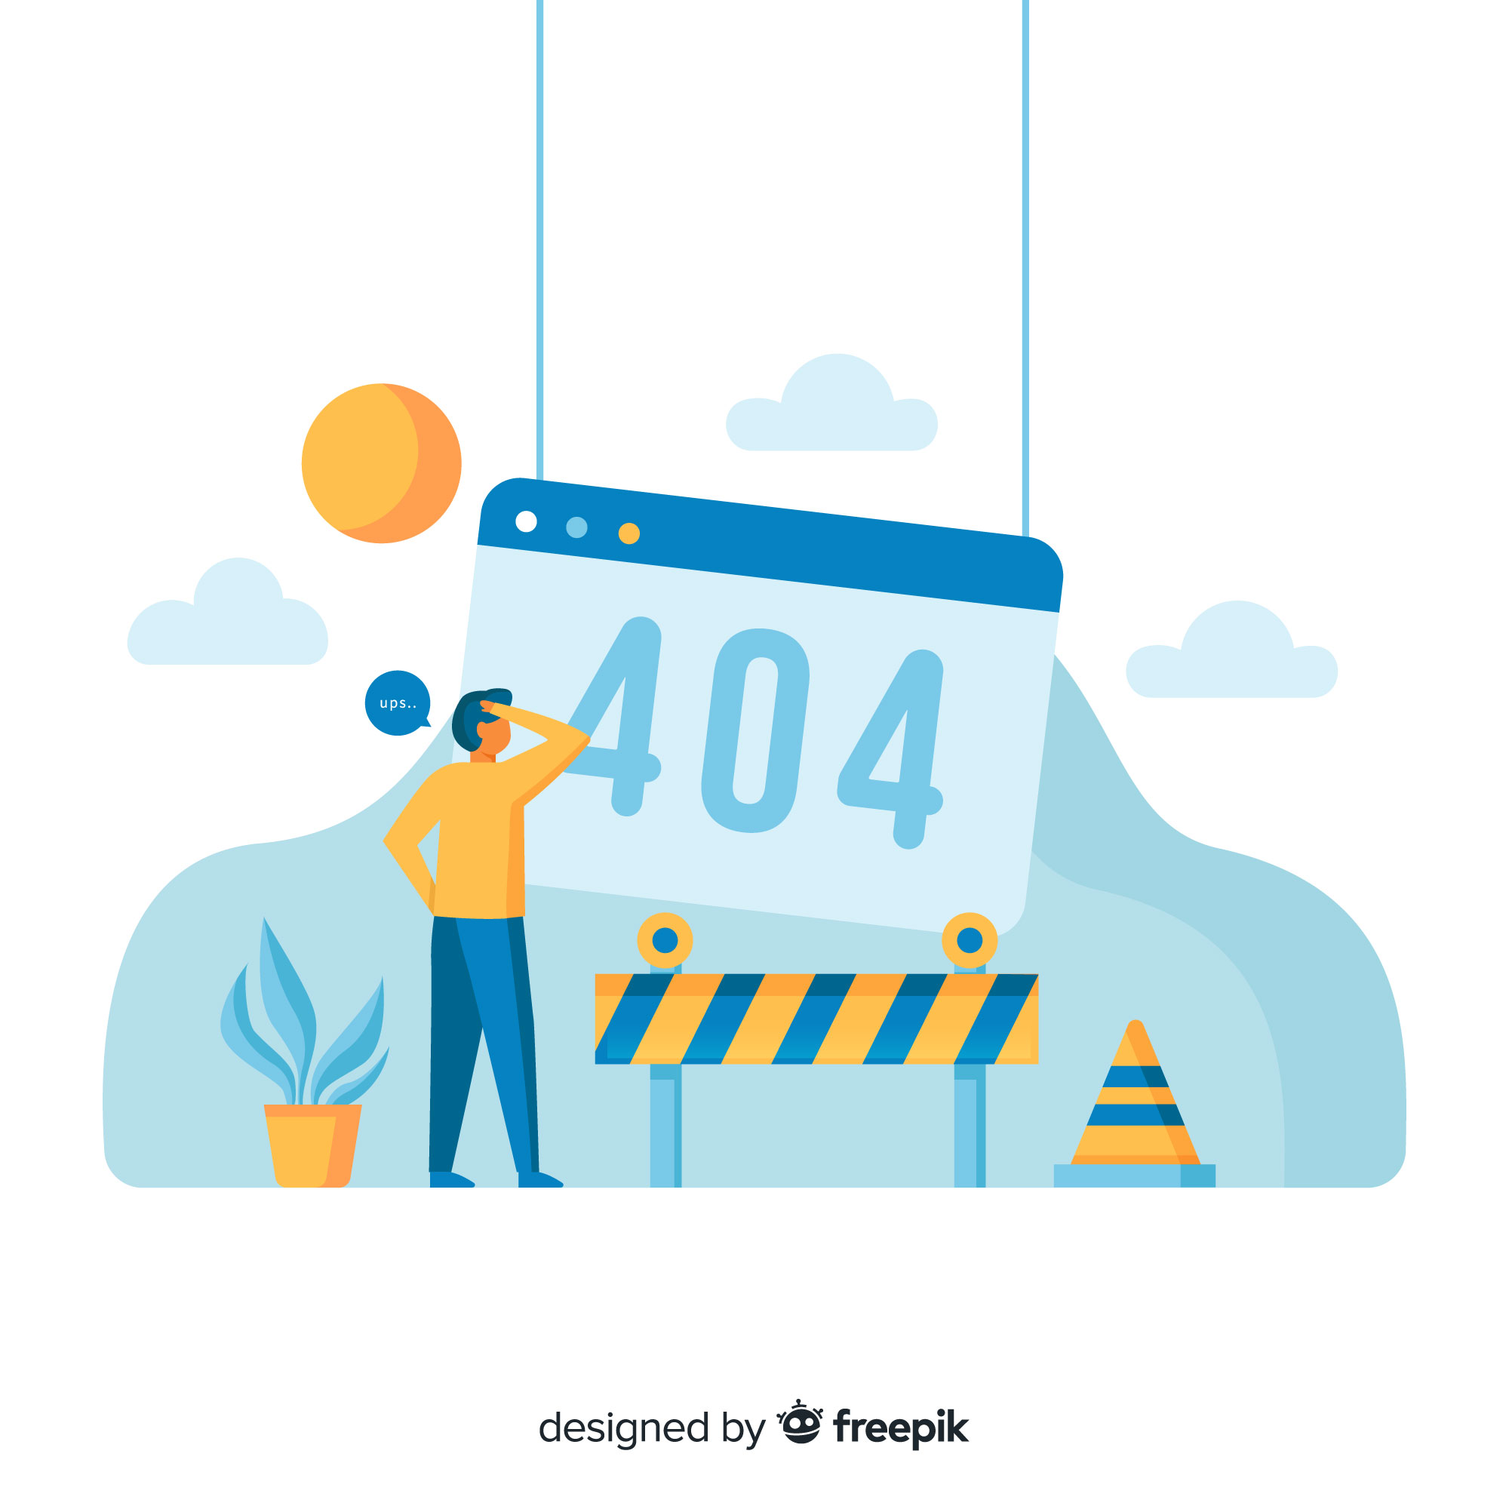
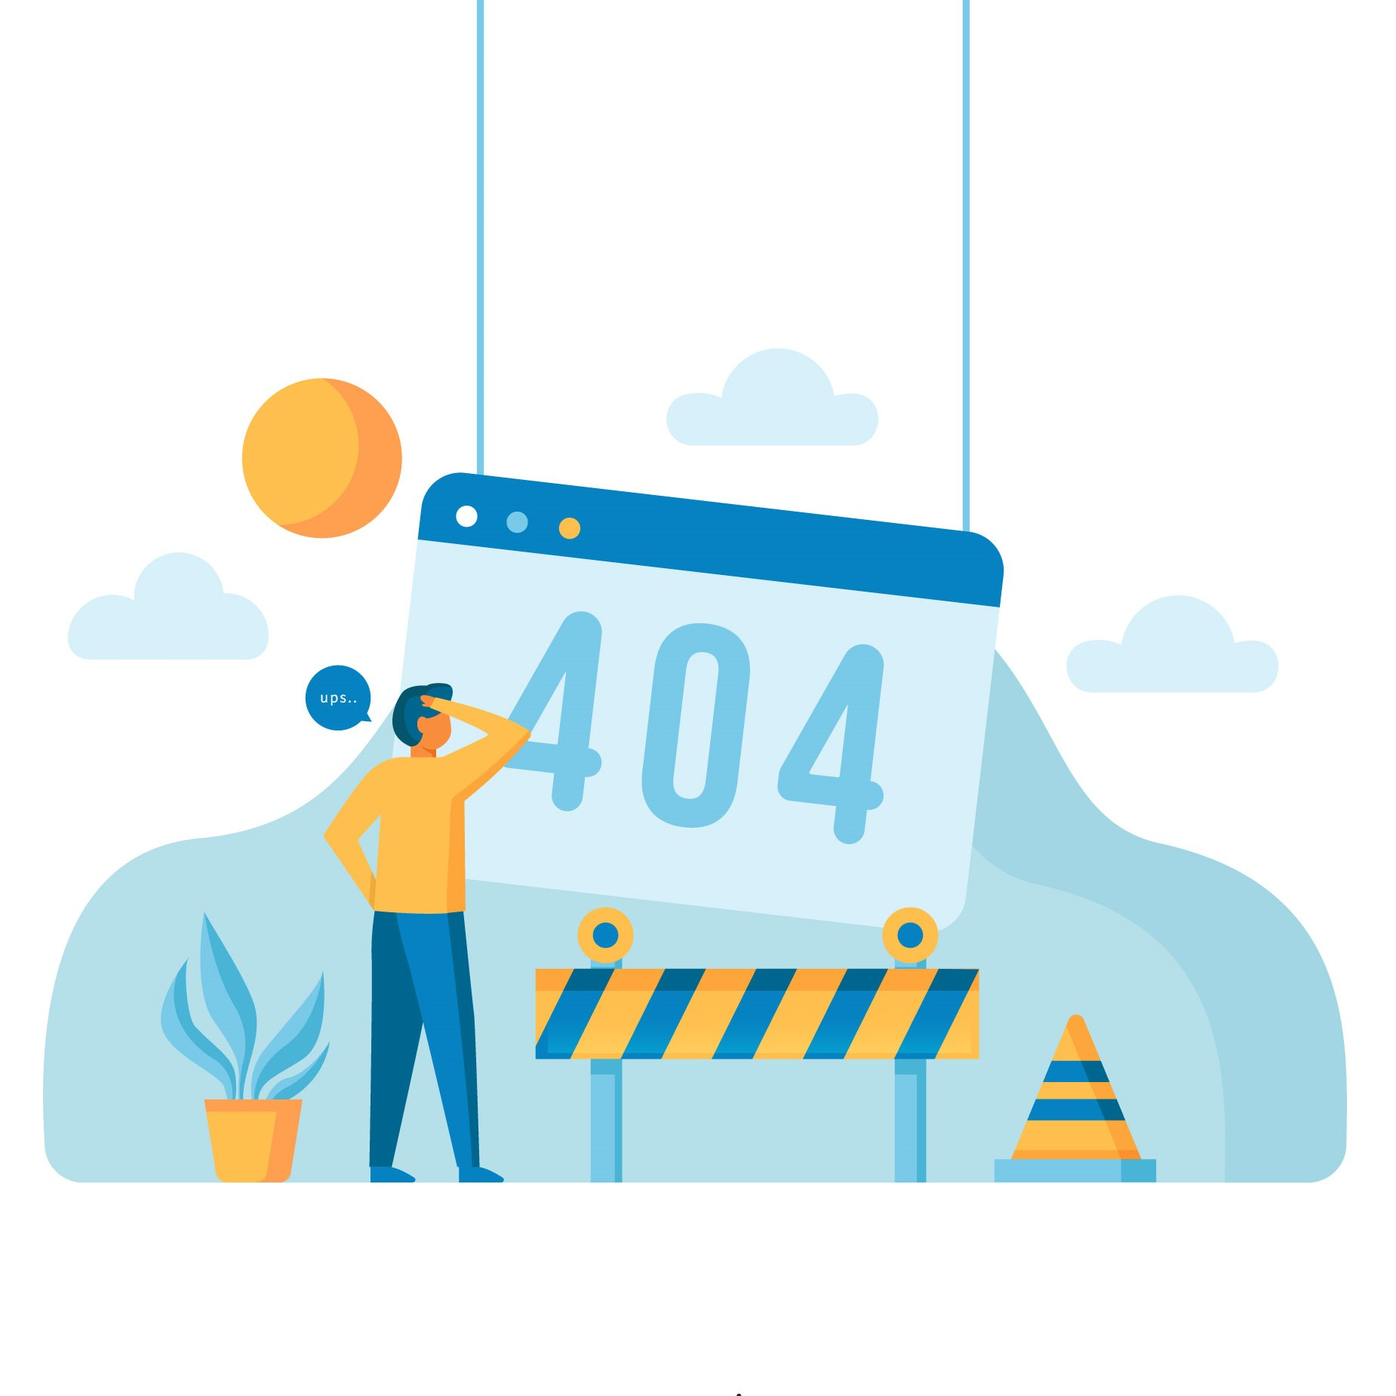
Detail page

Changed region(s): [[0.0308, 0.0, 0.9859, 0.8627], [0.7395, 0.5238, 0.9243, 0.647], [0.3389, 0.9243, 0.647, 0.9551]]

diff --git a/src/components/postDetail.js b/src/components/postDetail.js
@@ -1,0 +1,30 @@
+import React from "react";
+
+class postDetail extends React.Component {
+    render() {
+        return (
+            <div className="py-5 w-full">
+                <h1 className=" text-2xl">LÃNH ĐẠO TỔNG CÔNG TY ĐIỆN LỰC MIỀN NAM ĐẾN THĂM VÀ CHÚC TẾT TRƯỜNG CAO ĐẲNG ĐIỆN LỰC THÀNH PHỐ HỒ CHÍ MINH</h1>
+                <p className="text-end">(18/01/2023)</p>
+                <div class="max-w-4xl ms-0 2xl:mx-auto"><div class="font-display text-xl text-primary dark:text-primary-dark leading-relaxed"><p class="whitespace-pre-wrap my-4">React has a community of millions of developers. On this page we’ve listed some React-related communities that you can be a part of; see the other pages in this section for additional online and in-person learning materials.</p></div>
+                    <h2 id="code-of-conduct" class="mdx-heading text-3xl font-display leading-10 text-primary dark:text-primary-dark font-bold my-6">Code of Conduct <a href="#code-of-conduct" aria-label="Link for Code of Conduct " title="Link for Code of Conduct " class="mdx-header-anchor inline-block"><svg width="1em" height="1em" viewBox="0 0 13 13" xmlns="http://www.w3.org/2000/svg" class="text-gray-70 ms-2 h-5 w-5"><g fill="currentColor" fill-rule="evenodd"><path d="M7.778 7.975a2.5 2.5 0 0 0 .347-3.837L6.017 2.03a2.498 2.498 0 0 0-3.542-.007 2.5 2.5 0 0 0 .006 3.543l1.153 1.15c.07-.29.154-.563.25-.773.036-.077.084-.16.14-.25L3.18 4.85a1.496 1.496 0 0 1 .002-2.12 1.496 1.496 0 0 1 2.12 0l2.124 2.123a1.496 1.496 0 0 1-.333 2.37c.16.246.42.504.685.752z"></path><path d="M5.657 4.557a2.5 2.5 0 0 0-.347 3.837l2.108 2.108a2.498 2.498 0 0 0 3.542.007 2.5 2.5 0 0 0-.006-3.543L9.802 5.815c-.07.29-.154.565-.25.774-.036.076-.084.16-.14.25l.842.84c.585.587.59 1.532 0 2.122-.587.585-1.532.59-2.12 0L6.008 7.68a1.496 1.496 0 0 1 .332-2.372c-.16-.245-.42-.503-.685-.75z"></path></g></svg></a></h2>
+                    <p class="whitespace-pre-wrap my-4">Before participating in React’s communities, <a href="https://github.com/facebook/react/blob/main/CODE_OF_CONDUCT.md" target="_blank" rel="nofollow noopener noreferrer" class="inline text-link dark:text-link-dark border-b border-link border-opacity-0 hover:border-opacity-100 duration-100 ease-in transition leading-normal">please read our Code of Conduct.</a> We have adopted the <a href="https://www.contributor-covenant.org/" target="_blank" rel="nofollow noopener noreferrer" class="inline text-link dark:text-link-dark border-b border-link border-opacity-0 hover:border-opacity-100 duration-100 ease-in transition leading-normal">Contributor Covenant</a> and we expect that all community members adhere to the guidelines within.</p>
+                    <h2 id="stack-overflow" class="mdx-heading text-3xl font-display leading-10 text-primary dark:text-primary-dark font-bold my-6">Stack Overflow <a href="#stack-overflow" aria-label="Link for Stack Overflow " title="Link for Stack Overflow " class="mdx-header-anchor inline-block"><svg width="1em" height="1em" viewBox="0 0 13 13" xmlns="http://www.w3.org/2000/svg" class="text-gray-70 ms-2 h-5 w-5"><g fill="currentColor" fill-rule="evenodd"><path d="M7.778 7.975a2.5 2.5 0 0 0 .347-3.837L6.017 2.03a2.498 2.498 0 0 0-3.542-.007 2.5 2.5 0 0 0 .006 3.543l1.153 1.15c.07-.29.154-.563.25-.773.036-.077.084-.16.14-.25L3.18 4.85a1.496 1.496 0 0 1 .002-2.12 1.496 1.496 0 0 1 2.12 0l2.124 2.123a1.496 1.496 0 0 1-.333 2.37c.16.246.42.504.685.752z"></path><path d="M5.657 4.557a2.5 2.5 0 0 0-.347 3.837l2.108 2.108a2.498 2.498 0 0 0 3.542.007 2.5 2.5 0 0 0-.006-3.543L9.802 5.815c-.07.29-.154.565-.25.774-.036.076-.084.16-.14.25l.842.84c.585.587.59 1.532 0 2.122-.587.585-1.532.59-2.12 0L6.008 7.68a1.496 1.496 0 0 1 .332-2.372c-.16-.245-.42-.503-.685-.75z"></path></g></svg></a></h2>
+                    <p class="whitespace-pre-wrap my-4">Stack Overflow is a popular forum to ask code-level questions or if you’re stuck with a specific error. Read through the <a href="https://stackoverflow.com/questions/tagged/reactjs" target="_blank" rel="nofollow noopener noreferrer" class="inline text-link dark:text-link-dark border-b border-link border-opacity-0 hover:border-opacity-100 duration-100 ease-in transition leading-normal">existing questions</a> tagged with <strong class="font-bold">reactjs</strong> or <a href="https://stackoverflow.com/questions/ask?tags=reactjs" target="_blank" rel="nofollow noopener noreferrer" class="inline text-link dark:text-link-dark border-b border-link border-opacity-0 hover:border-opacity-100 duration-100 ease-in transition leading-normal">ask your own</a>!</p>
+                    <h2 id="popular-discussion-forums" class="mdx-heading text-3xl font-display leading-10 text-primary dark:text-primary-dark font-bold my-6">Popular Discussion Forums <a href="#popular-discussion-forums" aria-label="Link for Popular Discussion Forums " title="Link for Popular Discussion Forums " class="mdx-header-anchor inline-block"><svg width="1em" height="1em" viewBox="0 0 13 13" xmlns="http://www.w3.org/2000/svg" class="text-gray-70 ms-2 h-5 w-5"><g fill="currentColor" fill-rule="evenodd"><path d="M7.778 7.975a2.5 2.5 0 0 0 .347-3.837L6.017 2.03a2.498 2.498 0 0 0-3.542-.007 2.5 2.5 0 0 0 .006 3.543l1.153 1.15c.07-.29.154-.563.25-.773.036-.077.084-.16.14-.25L3.18 4.85a1.496 1.496 0 0 1 .002-2.12 1.496 1.496 0 0 1 2.12 0l2.124 2.123a1.496 1.496 0 0 1-.333 2.37c.16.246.42.504.685.752z"></path><path d="M5.657 4.557a2.5 2.5 0 0 0-.347 3.837l2.108 2.108a2.498 2.498 0 0 0 3.542.007 2.5 2.5 0 0 0-.006-3.543L9.802 5.815c-.07.29-.154.565-.25.774-.036.076-.084.16-.14.25l.842.84c.585.587.59 1.532 0 2.122-.587.585-1.532.59-2.12 0L6.008 7.68a1.496 1.496 0 0 1 .332-2.372c-.16-.245-.42-.503-.685-.75z"></path></g></svg></a></h2>
+                    <p class="whitespace-pre-wrap my-4">There are many online forums which are a great place for discussion about best practices and application architecture as well as the future of React. If you have an answerable code-level question, Stack Overflow is usually a better fit.</p>
+                    <p class="whitespace-pre-wrap my-4">Each community consists of many thousands of React users.</p>
+                    <ul class="ms-6 my-3 list-disc">
+                        <li class="leading-relaxed mb-1"><a href="https://dev.to/t/react" target="_blank" rel="nofollow noopener noreferrer" class="inline text-link dark:text-link-dark border-b border-link border-opacity-0 hover:border-opacity-100 duration-100 ease-in transition leading-normal">DEV’s React community</a></li>
+                        <li class="leading-relaxed mb-1"><a href="https://hashnode.com/n/reactjs" target="_blank" rel="nofollow noopener noreferrer" class="inline text-link dark:text-link-dark border-b border-link border-opacity-0 hover:border-opacity-100 duration-100 ease-in transition leading-normal">Hashnode’s React community</a></li>
+                        <li class="leading-relaxed mb-1"><a href="https://discord.gg/reactiflux" target="_blank" rel="nofollow noopener noreferrer" class="inline text-link dark:text-link-dark border-b border-link border-opacity-0 hover:border-opacity-100 duration-100 ease-in transition leading-normal">Reactiflux online chat</a></li>
+                        <li class="leading-relaxed mb-1"><a href="https://www.reddit.com/r/reactjs/" target="_blank" rel="nofollow noopener noreferrer" class="inline text-link dark:text-link-dark border-b border-link border-opacity-0 hover:border-opacity-100 duration-100 ease-in transition leading-normal">Reddit’s React community</a></li>
+                    </ul>
+                    <h2 id="news" class="mdx-heading text-3xl font-display leading-10 text-primary dark:text-primary-dark font-bold my-6">News <a href="#news" aria-label="Link for News " title="Link for News " class="mdx-header-anchor inline-block"><svg width="1em" height="1em" viewBox="0 0 13 13" xmlns="http://www.w3.org/2000/svg" class="text-gray-70 ms-2 h-5 w-5"><g fill="currentColor" fill-rule="evenodd"><path d="M7.778 7.975a2.5 2.5 0 0 0 .347-3.837L6.017 2.03a2.498 2.498 0 0 0-3.542-.007 2.5 2.5 0 0 0 .006 3.543l1.153 1.15c.07-.29.154-.563.25-.773.036-.077.084-.16.14-.25L3.18 4.85a1.496 1.496 0 0 1 .002-2.12 1.496 1.496 0 0 1 2.12 0l2.124 2.123a1.496 1.496 0 0 1-.333 2.37c.16.246.42.504.685.752z"></path><path d="M5.657 4.557a2.5 2.5 0 0 0-.347 3.837l2.108 2.108a2.498 2.498 0 0 0 3.542.007 2.5 2.5 0 0 0-.006-3.543L9.802 5.815c-.07.29-.154.565-.25.774-.036.076-.084.16-.14.25l.842.84c.585.587.59 1.532 0 2.122-.587.585-1.532.59-2.12 0L6.008 7.68a1.496 1.496 0 0 1 .332-2.372c-.16-.245-.42-.503-.685-.75z"></path></g></svg></a></h2>
+                    <p class="whitespace-pre-wrap my-4">For the latest news about React, <a href="https://twitter.com/reactjs" target="_blank" rel="nofollow noopener noreferrer" class="inline text-link dark:text-link-dark border-b border-link border-opacity-0 hover:border-opacity-100 duration-100 ease-in transition leading-normal">follow <strong class="font-bold">@reactjs</strong> on Twitter</a> and the <a class="inline text-link dark:text-link-dark border-b border-link border-opacity-0 hover:border-opacity-100 duration-100 ease-in transition leading-normal" href="/blog">official React blog</a> on this website.</p></div>
+            </div>
+        );
+    }
+}
+
+export default postDetail;

diff --git a/src/components/rightNavbar.js b/src/components/rightNavbar.js
@@ -1,0 +1,46 @@
+import { faAnglesRight } from "@fortawesome/free-solid-svg-icons";
+import { FontAwesomeIcon } from "@fortawesome/react-fontawesome";
+import React from "react";
+import { Link } from "react-router-dom";
+class rightNavbar extends React.Component {
+    constructor(props) {
+        super(props);
+        this.state = {
+            now: new Date().toLocaleString('vn-VN', { weekday: "long", day: "2-digit", month: "2-digit", year: "2-digit" }) + " " + new Date().toLocaleTimeString(),
+        }
+    }
+    componentDidMount() {
+        this.intervalID = setInterval(() => this.updateClock(), 1000);
+    }
+    componentWillUnmount() {
+        clearInterval(this.intervalID);
+    }
+    updateClock() {
+        this.setState({
+            now: new Date().toLocaleString('vn-VN', { weekday: "long", day: "2-digit", month: "2-digit", year: "2-digit" }) + " " + new Date().toLocaleTimeString(),
+        });
+    }
+    render() {
+        return (
+            <div className="w-full">
+                <div className="text-center py-5">
+                    <p>{this.state.now}</p>
+                    <span className="text-2xl font-bold">CHUYÊN MỤC</span>
+                </div>
+                <div className="px-5">
+                    <ul>
+                        <li className="border-t-2 py-2"><Link to="/#"><FontAwesomeIcon icon={faAnglesRight}/> Giới thiệu</Link></li>
+                        <li className="border-t-2 py-2"><Link to="/#"><FontAwesomeIcon icon={faAnglesRight}/> Tin tức</Link></li>
+                        <li className="border-t-2 py-2"><Link to="/#"><FontAwesomeIcon icon={faAnglesRight}/> Thông báo</Link></li>
+                        <li className="border-t-2 py-2"><Link to="/#"><FontAwesomeIcon icon={faAnglesRight}/> Tuyển sinh</Link></li>
+                        <li className="border-t-2 py-2"><Link to="/#"><FontAwesomeIcon icon={faAnglesRight}/> Tuyển dụng</Link></li>
+                        <li className="border-t-2 py-2"><Link to="/#"><FontAwesomeIcon icon={faAnglesRight}/> Hoạt động đoàn</Link></li>
+                        <li className="border-t-2 py-2"><Link to="/#"><FontAwesomeIcon icon={faAnglesRight}/> Công đoàn</Link></li>
+                    </ul>
+                </div>
+            </div>
+        );
+    }
+}
+
+export default rightNavbar;

diff --git a/src/components/footer.js b/src/components/footer.js
@@ -1,3 +1,5 @@
+import { faFacebook, faYoutube } from "@fortawesome/free-brands-svg-icons";
+import { FontAwesomeIcon } from "@fortawesome/react-fontawesome";
 import React from "react";
 
 class footer extends React.Component {
@@ -21,13 +23,15 @@ class footer extends React.Component {
                         </div>
                         <div className="px-5 col-span-2 md:col-span-1">
                             <div className="text-center md:text-right text-white text-base">
-                                Liên hệ với chúng tôi:
+                                <p>Liên hệ với chúng tôi:</p>
+                                <a className="border-blue-500 rounded-full bg-blue-500 aspect-square w-7 h-7 float-right text-center mx-1" href="/#"><FontAwesomeIcon className="hover:scale-150 ease-in-out duration-300" icon={faFacebook} /></a>
+                                <a className="border-red-500 rounded-full bg-red-500 aspect-square w-7 h-7 float-right text-center" href="/#"><FontAwesomeIcon className="hover:scale-150 ease-in-out duration-300" icon={faYoutube} /></a>
                             </div>
                         </div>
                     </div>
                     <hr />
                     <div className="text-center text-white p-5">
-                    © HEPC 2023 - All right reserved - Designed by Administrator
+                        © HEPC 2023 - All right reserved - Designed by Administrator
                     </div>
                 </div>
 

diff --git a/src/components/newAnouncement.js b/src/components/newAnouncement.js
@@ -1,0 +1,28 @@
+
+import { faFireAlt} from "@fortawesome/free-solid-svg-icons";
+import { FontAwesomeIcon } from "@fortawesome/react-fontawesome";
+import React from "react";
+import { Link } from "react-router-dom";
+
+class newAnouncement extends React.Component {
+    render() {
+        return (
+            <div className="w-full">
+                <div className="text-center py-5">
+                    <span className="text-2xl font-bold">THÔNG BÁO MỚI NHẤT</span>
+                </div>
+                <div className="px-5">
+                    <ul>
+                        <li className="border-t-2 py-2"><Link to="/#"><FontAwesomeIcon icon={faFireAlt} className="text-red-500"/> Thông báo mới</Link></li>
+                        <li className="border-t-2 py-2"><Link to="/#"><FontAwesomeIcon icon={faFireAlt} className="text-red-500"/> Thông báo mới</Link></li>
+                        <li className="border-t-2 py-2"><Link to="/#"><FontAwesomeIcon icon={faFireAlt} className="text-red-500"/> Thông báo mới</Link></li>
+                        <li className="border-t-2 py-2"><Link to="/#"><FontAwesomeIcon icon={faFireAlt} className="text-red-500"/> Thông báo mới</Link></li>
+                        <li className="border-t-2 py-2"><Link to="/#"><FontAwesomeIcon icon={faFireAlt} className="text-red-500"/> Thông báo mới</Link></li>
+                    </ul>
+                </div>
+            </div>
+        );
+    }
+}
+
+export default newAnouncement;

diff --git a/src/components/morePost.js b/src/components/morePost.js
@@ -1,0 +1,22 @@
+import { faPlus } from "@fortawesome/free-solid-svg-icons";
+import { FontAwesomeIcon } from "@fortawesome/react-fontawesome";
+import React from "react";
+import { Link } from "react-router-dom";
+class morePost extends React.Component{
+    render(){
+        return(
+            <div className="w-full text-justify py-5">
+                <hr className="border"/>
+                Xem thêm:
+                <ul>
+                    <li><Link><FontAwesomeIcon icon={faPlus}/> Thông báo mới 1</Link></li>
+                    <li><Link><FontAwesomeIcon icon={faPlus}/> Thông báo mới 1</Link></li>
+                    <li><Link><FontAwesomeIcon icon={faPlus}/> Thông báo mới 1</Link></li>
+                    <li><Link><FontAwesomeIcon icon={faPlus}/> Thông báo mới 1</Link></li>
+                    <li><Link><FontAwesomeIcon icon={faPlus}/> Thông báo mới 1</Link></li>
+                </ul>
+            </div>
+        );
+    }
+}
+export default morePost;

diff --git a/src/views/postPage.js b/src/views/postPage.js
@@ -1,0 +1,29 @@
+import Title from "../components/title";
+import React from "react";
+import RightNavbar from "../components/rightNavbar";
+import NewAnouncement from "../components/newAnouncement";
+import PostDetail from "../components/postDetail";
+import MorePost from "../components/morePost";
+
+class postPage extends React.Component {
+    render() {
+        return (
+            <div>
+                <Title title="Tin tức"/>
+                <div className="container mx-auto 2xl:px-40 grid grid-cols-1 md:grid-cols-3">
+                    <div className="md:col-span-2">
+                        <PostDetail/>
+                        <MorePost/>
+                    </div>
+                    <div className="md:col-span-1 ">
+                        <RightNavbar/>
+                        <NewAnouncement/>
+                    </div>
+                </div>
+            </div>
+
+        );
+    }
+}
+
+export default postPage;

diff --git a/src/views/homePage.js b/src/views/homePage.js
@@ -1,25 +1,20 @@
 import React from "react";
-import Header from "../components/header";
 import Carousel from "../components/caroulse";
 import Introduce from "../components/introduce";
 import Catalogue from "../components/catalogue";
 import Admission from "../components/admission";
 import Videos from "../components/videos";
-import Footer from "../components/footer";
 
 class homePage extends React.Component{
     render(){
         return (
             <>
-            <Header/>
             <Carousel/>
             <Introduce/>
             <Catalogue catalogueName="Tin tức"/>
             <Catalogue catalogueName="Thông báo"/>
             <Admission />
             <Videos/>
-            <Footer/>
-            
             </>
             
         )

diff --git a/src/components/title.js b/src/components/title.js
@@ -1,0 +1,18 @@
+import { faAnglesRight } from "@fortawesome/free-solid-svg-icons";
+import { FontAwesomeIcon } from "@fortawesome/react-fontawesome";
+import bgImage from "../assets/image/banner_page.jpg"
+import React from "react";
+import { Link } from "react-router-dom";
+
+class title extends React.Component {
+    render() {
+        return (
+            <div className="text-center object-cover object-center text-white py-5" style={{backgroundImage:`url(${bgImage})`}}>
+                <p><strong>{this.props.title}</strong></p>
+                <p><strong><Link to="/">Trang chủ</Link> <FontAwesomeIcon icon={faAnglesRight} /> {this.props.title}</strong></p>
+            </div>
+        );
+    }
+}
+
+export default title;

diff --git a/src/views/app.js b/src/views/app.js
@@ -1,0 +1,26 @@
+import * as React from "react";
+import { BrowserRouter, Route, Routes} from "react-router-dom";
+import HomePage from "./homePage";
+import PostPage from "./postPage";
+import NotFoundPage from "./pageNotFound";
+import Header from "../components/header";
+import Footer from "../components/footer";
+
+class app extends React.Component {
+  render() {
+    return (
+      <BrowserRouter>
+      <Header/>
+        <Routes>
+          <Route path="/" element={<HomePage />} />
+          <Route path="/detail" element={<PostPage/>} />
+          <Route path="*" element={<NotFoundPage />} />
+        </Routes>
+        <Footer/>
+      </BrowserRouter>
+
+    );
+  }
+}
+
+export default app;

diff --git a/src/index.js b/src/index.js
@@ -1,24 +1,14 @@
 import React from 'react';
 import ReactDOM from 'react-dom/client';
 import reportWebVitals from './reportWebVitals';
-import HomePage from './views/homePage';
+import App from './views/app';
 import "./index.css";
-import {
-  createBrowserRouter,
-  RouterProvider,
-} from "react-router-dom";
 
 
-const router = createBrowserRouter([
-  {
-    path: "/",
-    element: <HomePage/>
-  },
-]);
 const root = ReactDOM.createRoot(document.getElementById('root'));
 root.render(
   <React.StrictMode>
-    <RouterProvider router={router}/>
+    <App/>
   </React.StrictMode>
 );
 

diff --git a/src/views/pageNotFound.js b/src/views/pageNotFound.js
@@ -1,0 +1,15 @@
+import React from "react";
+import pageImage from "../assets/image/404.jpg";
+
+class pageNotFound extends React.Component{
+    render(){
+        return(
+            <div className="text-center text-5xl pb-10">
+            <img src={pageImage} alt="Page not found" className="w-1/2 block mx-auto"/>
+            <strong>Trang bạn đang tìm kiếm không tồn tại</strong>
+            </div>
+        );
+    }
+}
+
+export default pageNotFound;

diff --git a/src/components/cardPost.js b/src/components/cardPost.js
@@ -6,7 +6,7 @@ class cardPost extends React.Component {
     render() {
         return (
             <div className="w-full p-2 ">
-                <div className="border rounded-md bg-white">
+                <div className="border rounded-md bg-white border-gray-300">
                     <img src={image} alt="" className="w-full aspect-[2/1] object-cover" />
                     <Link to="/">
                         <div className="p-5 text-justify">
